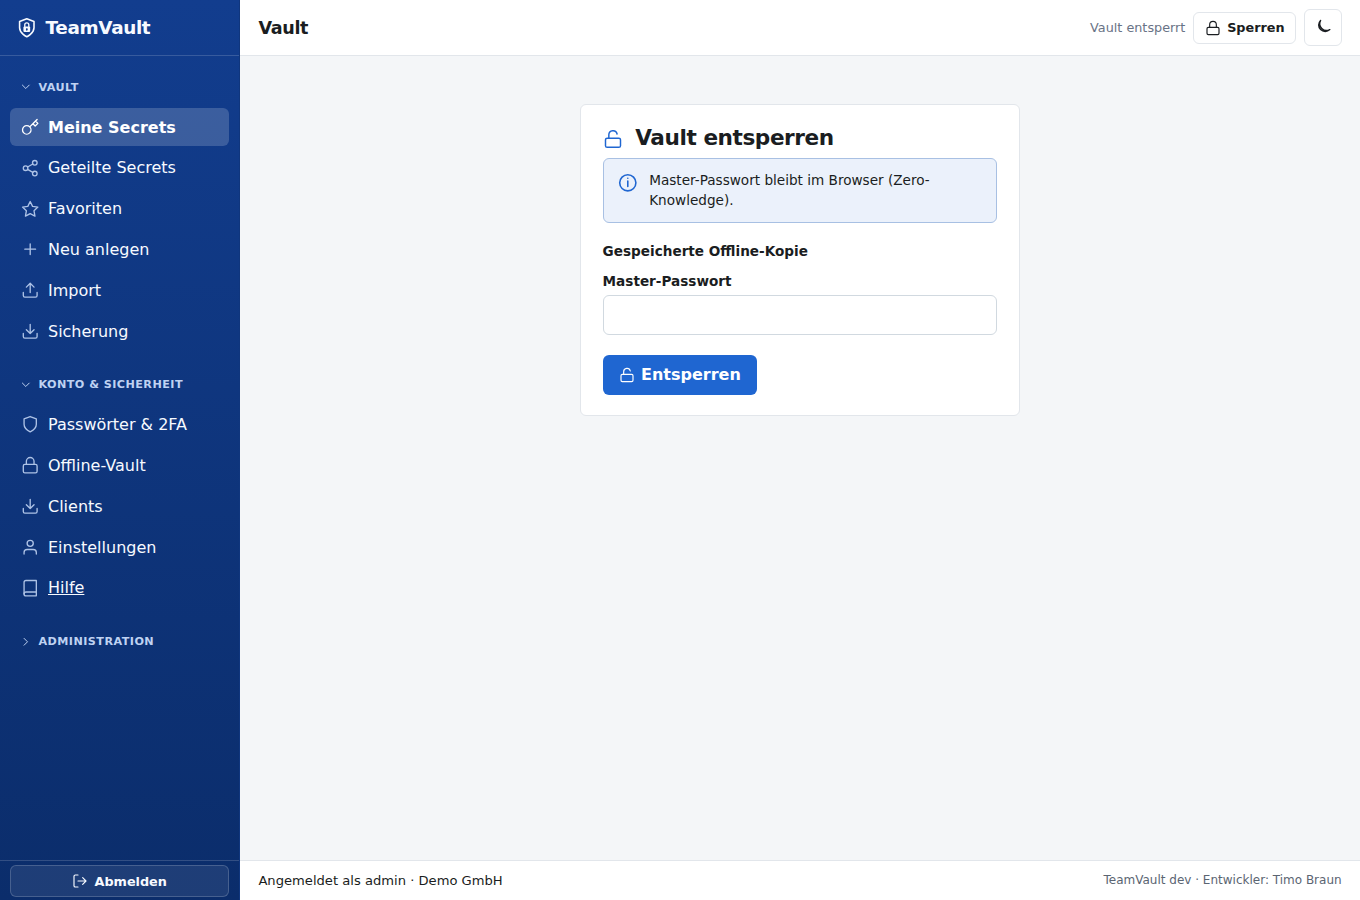
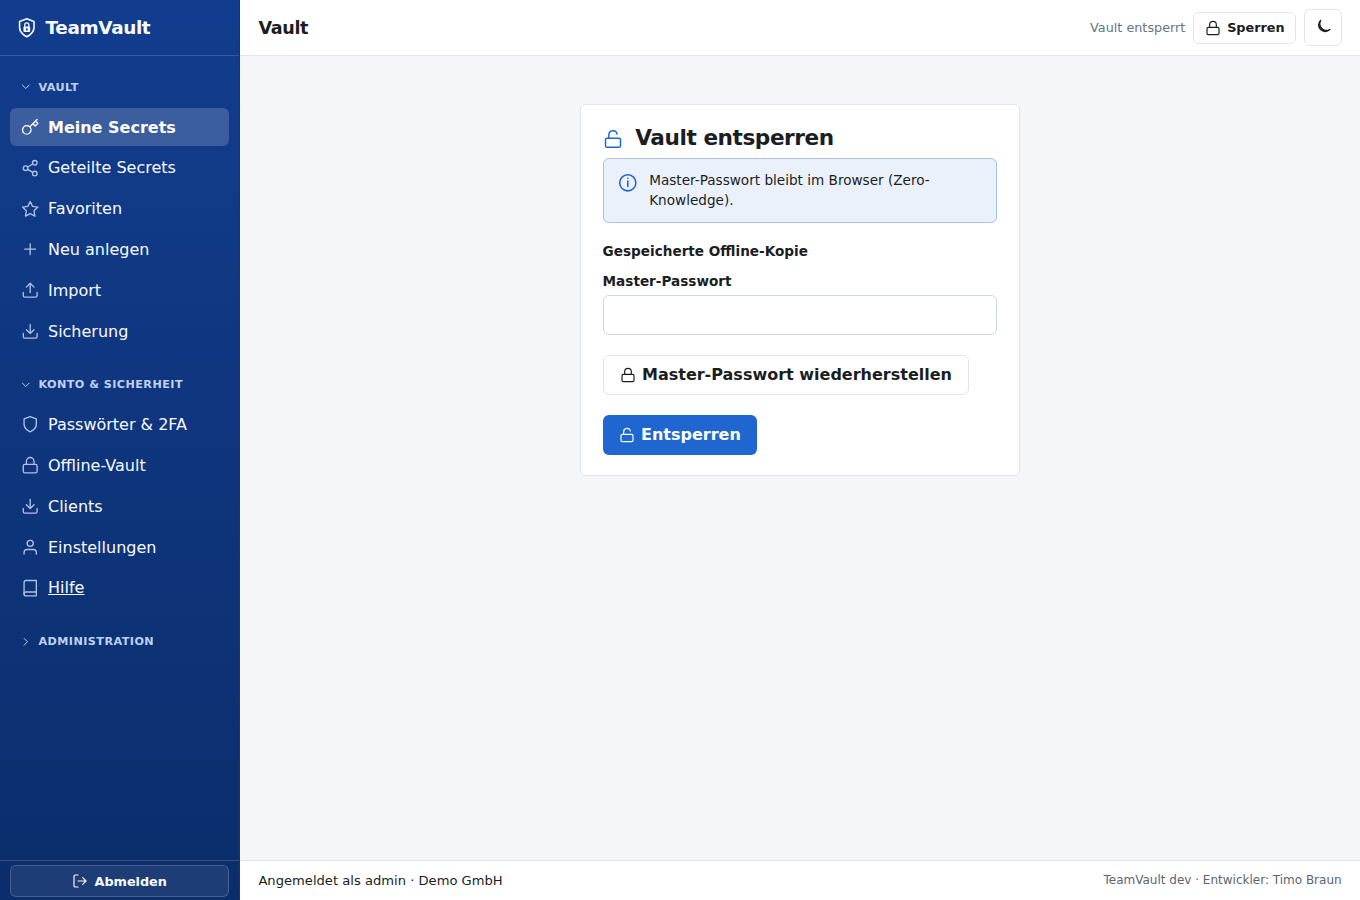
Progress: docs/help refresh and screenshot regeneration

Changed region(s): [[0.4324, 0.3733, 0.7103, 0.5289]]

diff --git a/web/static/help/account.html b/web/static/help/account.html
@@ -111,6 +111,10 @@
 
         <h2 id="recovery">Master-Passwort wiederherstellen (Recovery-Kit)</h2>
         <div class="help-step">
+          <figure class="help-figure">
+            <img src="/help/img/vault-unlock.png" alt="Vault entsperren mit Wiederherstellung per Recovery-Kit" width="1100" height="720" loading="lazy" />
+            <figcaption>Panel „Vault entsperren“ mit Option „Master-Passwort wiederherstellen“</figcaption>
+          </figure>
           <ol>
             <li>Login normal durchführen (Organisation, Username, Login-Passwort; ggf. TOTP).</li>
             <li>Im Panel <strong>Vault entsperren</strong> auf <strong>Master-Passwort wiederherstellen</strong> klicken.</li>

diff --git a/docs/user-guide.md b/docs/user-guide.md
@@ -251,6 +251,19 @@ Nur bei **lokalem** Auth-Backend: aktuelles + neues Login-Passwort (mindestens 1
 
 Aktuelles und neues Master-Passwort eingeben → **Master-Passwort speichern**. Das neue Passwort unterliegt derselben Regel wie beim Onboarding (mindestens 16 Zeichen, Groß-/Kleinbuchstaben, Ziffer, Sonderzeichen; Umlaute und Leerzeichen sind erlaubt). Der Private Key wird **nur im Browser** neu versiegelt; der Server speichert neue Ciphertexte. Bei Recovery-Modus `user_kit` erscheint ein neues Recovery-Kit (einmalig sichern).
 
+### Master-Passwort wiederherstellen (Recovery-Kit)
+
+Wenn das aktuelle Master-Passwort nicht mehr bekannt ist (Modus `user_kit`):
+
+1. Normal anmelden (Organisation, Username, Login-Passwort; ggf. TOTP)  
+2. Im Panel **Vault entsperren** auf **Master-Passwort wiederherstellen**  
+3. Recovery-Kit (Base64) einfügen und neues Master-Passwort setzen  
+4. **Mit Recovery-Kit wiederherstellen** ausführen
+
+Der private Schlüssel wird dabei nur im Browser entschlüsselt und direkt mit dem neuen Master-Passwort neu versiegelt. Ohne Master-Passwort und ohne Recovery-Kit ist im Modus `user_kit` keine Wiederherstellung möglich.
+
+![Vault entsperren](images/vault-unlock.png)
+
 ### Offline-Vault (optional)
 
 Wenn der Administrator den Offline-Cache erlaubt, können Sie unter **Konto** eine verschlüsselte lokale Kopie (nur Ciphertext, 30 Tage) vorhalten:
